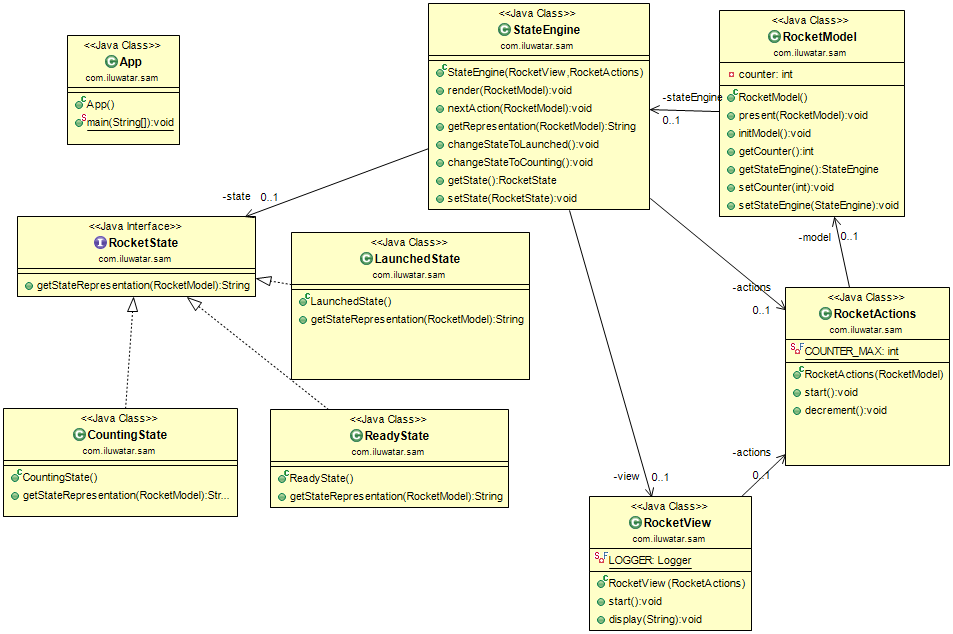
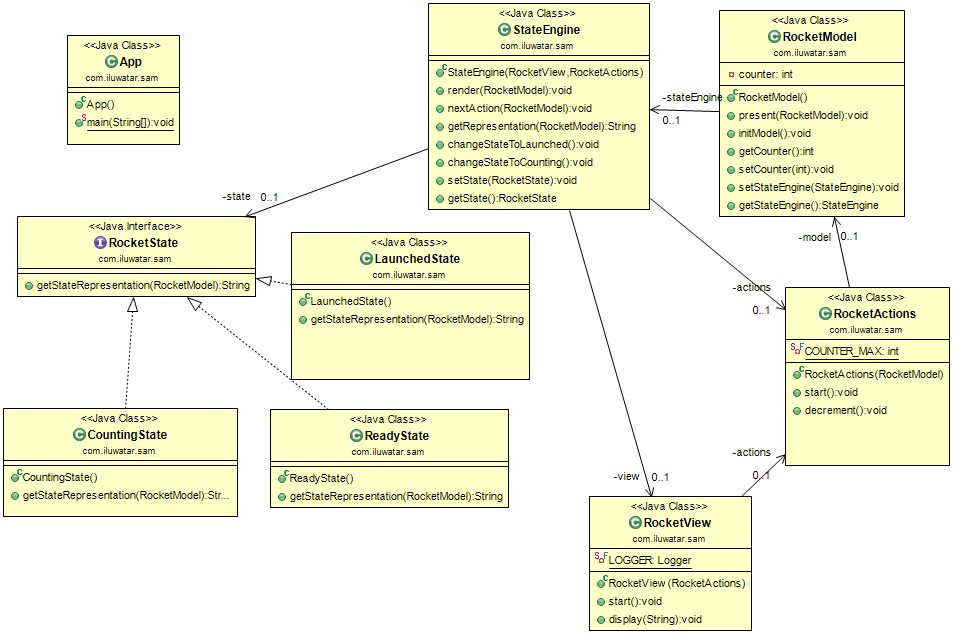
#511 test sam pattern

Changed region(s): [[0.7912, 0.2397, 0.9433, 0.3297], [0.5173, 0.2697, 0.6086, 0.3297]]

diff --git a/sam/src/test/java/com/iluwatar/sam/SamPatternTest.java b/sam/src/test/java/com/iluwatar/sam/SamPatternTest.java
@@ -20,55 +20,47 @@
  * OUT OF OR IN CONNECTION WITH THE SOFTWARE OR THE USE OR OTHER DEALINGS IN
  * THE SOFTWARE.
  */
-
 package com.iluwatar.sam;
 
+import static org.junit.Assert.*;
+
+import org.junit.Before;
+import org.junit.Test;
+
 /**
- * Class defining model
+ * 
+ * Test pattern
  *
  */
-public class RocketModel {
+public class SamPatternTest {
 
-  private int counter;
-  private StateEngine stateEngine; 
-
-  public RocketModel() {
+  private RocketModel model;
+  private RocketView view;
+  private RocketActions actions;
+  private StateEngine stateEngine;
+  
+  @Before
+  public void setUp() throws Exception {
+    model = new RocketModel();
+    actions = new RocketActions(model);
+    view = new RocketView(actions);
+    stateEngine = new StateEngine(view, actions);
+    
   }
   
-  /**
-   * Method present model from actions
-   * 
-   * @param proposedModel model from actions
-   */
-  public void present(RocketModel proposedModel) {
-    if (proposedModel.getCounter() >= 0 && proposedModel.getCounter() <= 10 ) {
-      this.setCounter(proposedModel.getCounter());
-      stateEngine.render(this);
-    }
+  @Test
+  public void testPattern() throws Exception {
+    assertNotNull(model);
+    assertNotNull(view);
+    assertNotNull(actions);
+    assertNotNull(stateEngine);
+    
+    model.setStateEngine(stateEngine);
+    model.initModel();
+    view.start();
+    
+    assertTrue(model.getStateEngine().getState() instanceof LaunchedState);
+    
   }
 
-  /**
-   * Method for init model
-   */
-  public void initModel() {
-    this.counter = -1;
-    this.stateEngine.setState(new ReadyState());
-    stateEngine.render(this); 
-  }
-
-  public int getCounter() {
-    return counter;
-  }
-
-  public void setCounter(int counter) {
-    this.counter = counter;
-  }
-  
-  public void setStateEngine(StateEngine stateEngine) {
-    this.stateEngine = stateEngine;
-  }
-  
-  public StateEngine getStateEngine() {
-    return stateEngine;
-  }
 }

diff --git a/sam/src/test/java/com/iluwatar/sam/AppTest.java b/sam/src/test/java/com/iluwatar/sam/AppTest.java
@@ -1,3 +1,25 @@
+/**
+ * The MIT License
+ * Copyright (c) 2014 Ilkka Seppälä
+ *
+ * Permission is hereby granted, free of charge, to any person obtaining a copy
+ * of this software and associated documentation files (the "Software"), to deal
+ * in the Software without restriction, including without limitation the rights
+ * to use, copy, modify, merge, publish, distribute, sublicense, and/or sell
+ * copies of the Software, and to permit persons to whom the Software is
+ * furnished to do so, subject to the following conditions:
+ *
+ * The above copyright notice and this permission notice shall be included in
+ * all copies or substantial portions of the Software.
+ *
+ * THE SOFTWARE IS PROVIDED "AS IS", WITHOUT WARRANTY OF ANY KIND, EXPRESS OR
+ * IMPLIED, INCLUDING BUT NOT LIMITED TO THE WARRANTIES OF MERCHANTABILITY,
+ * FITNESS FOR A PARTICULAR PURPOSE AND NONINFRINGEMENT. IN NO EVENT SHALL THE
+ * AUTHORS OR COPYRIGHT HOLDERS BE LIABLE FOR ANY CLAIM, DAMAGES OR OTHER
+ * LIABILITY, WHETHER IN AN ACTION OF CONTRACT, TORT OR OTHERWISE, ARISING FROM,
+ * OUT OF OR IN CONNECTION WITH THE SOFTWARE OR THE USE OR OTHER DEALINGS IN
+ * THE SOFTWARE.
+ */
 package com.iluwatar.sam;
 
 import org.junit.Test;

diff --git a/sam/src/main/java/com/iluwatar/sam/StateEngine.java b/sam/src/main/java/com/iluwatar/sam/StateEngine.java
@@ -31,7 +31,7 @@ public class StateEngine {
   private RocketState state;
   private RocketView view;
   private RocketActions actions;
-
+  
   public StateEngine(RocketView view, RocketActions actions) {
     this.view = view;
     this.actions = actions;
@@ -76,11 +76,11 @@ public class StateEngine {
     this.setState(new CountingState());
   }
 
-  public RocketState getState() {
-    return this.state;  
-  }
-
   public void setState(RocketState state) {
     this.state = state;
+  }
+  
+  public RocketState getState() {
+    return this.state;
   }
 }
